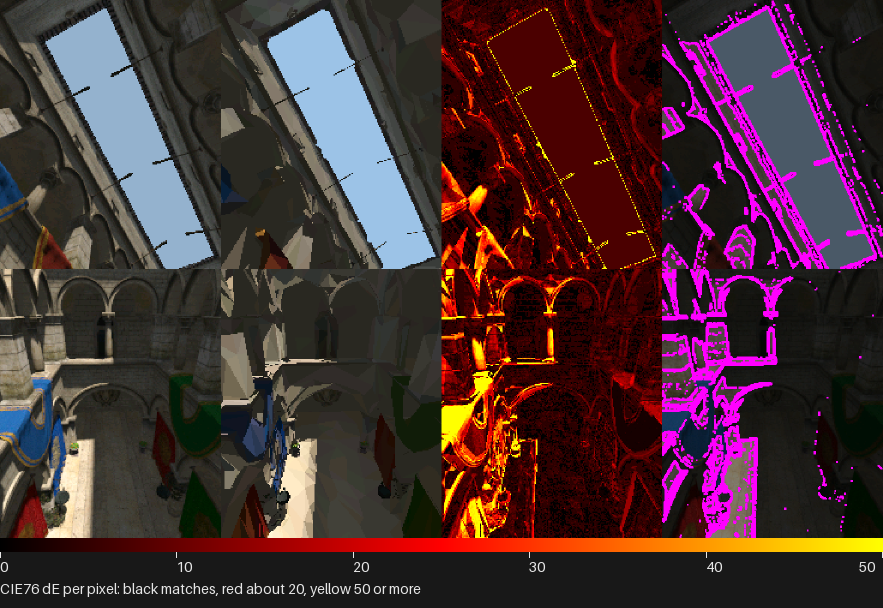
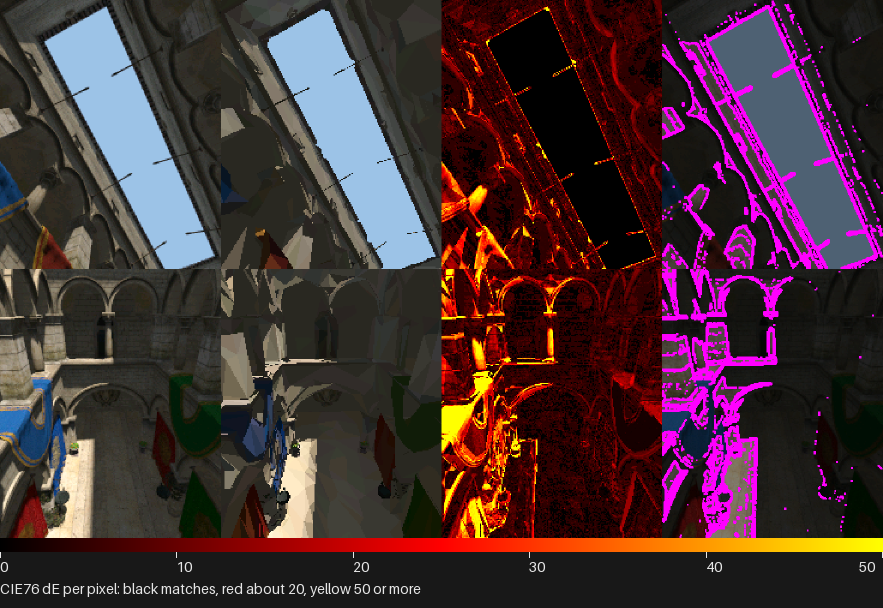
render: the reference fills uncovered pixels with the scene's background colour; --start scores a segment

Changed region(s): [[0.5504, 0.0, 0.7644, 0.4375], [0.0306, 0.0, 0.2446, 0.4688]]

diff --git a/launcher/tools/r3d/reference_render.py b/launcher/tools/r3d/reference_render.py
@@ -104,10 +104,17 @@ def hit_albedo(source, hits, bary):
 
 def render_linear(source, settings, scene, pose, width, height, lens, samples=4):
     """Return a linear RGB source render, supersampled then box filtered."""
+    return trace(source, settings, scene, pose, width, height, lens, samples)[0]
+
+
+def trace(source, settings, scene, pose, width, height, lens, samples=4):
+    """(linear RGB, share of each pixel's subpixels that hit the mesh)."""
     eye, forward = pose[:3], pose[3:]
     origin, direction = camera_rays(width, height, lens, eye, forward, samples)
     locations, rays, faces = source.intersector.intersects_location(origin, direction, multiple_hits=False)
     linear = np.zeros((len(origin), 3), dtype=float)
+    covered = np.zeros(len(origin))
+    covered[rays] = 1.0
     if len(rays):
         bary = hit_barycentrics(source, faces, locations)
         normal = hit_normals(source, faces, bary)
@@ -117,14 +124,19 @@ def render_linear(source, settings, scene, pose, width, height, lens, samples=4)
         radiance = light(locations, normal, double, source.intersector, scene.lights, settings.light.ray_offset,
                          np.random.default_rng(settings.seed), shared_sky_rays=0)
         linear[rays] = albedo * radiance
-    return linear.reshape(height, width, samples * samples, 3).mean(axis=2)
+    return (linear.reshape(height, width, samples * samples, 3).mean(axis=2),
+            covered.reshape(height, width, samples * samples).mean(axis=2))
 
 
-def parse_rgb(text):
-    """An RGB clear colour from a six-digit hex string."""
-    if len(text) != 6:
-        raise ValueError("clear colour must be RRGGBB")
-    return np.array([int(text[index : index + 2], 16) for index in (0, 2, 4)], dtype=np.uint8)
+def device_picture(linear, covered, tonemap_white, background):
+    """The 8-bit picture the device shows: the tone-mapped mesh over the scene's
+    background colour in proportion to what each pixel leaves uncovered, then
+    RGB565-quantised."""
+    lit = to_srgb8(linear, tonemap_white).astype(float)
+    if background is not None:
+        colour = np.array([background >> 16, (background >> 8) & 255, background & 255], dtype=float)
+        lit = lit * covered[..., None] + colour * (1.0 - covered[..., None])
+    return expand_565(np.round(lit).astype(np.uint8))
 
 
 def source_for(scene, import_path=None):
@@ -154,7 +166,6 @@ def main(argv=None):
     parser.add_argument("--out", required=True)
     parser.add_argument("--samples", type=int, default=4)
     parser.add_argument("--skip", type=int, default=0, help="ignore this many leading poses")
-    parser.add_argument("--clear", type=parse_rgb, help="RGB clear colour for rays that miss")
     args = parser.parse_args(argv)
     if args.samples < 1 or args.skip < 0:
         parser.error("--samples must be positive and --skip cannot be negative")
@@ -172,11 +183,9 @@ def main(argv=None):
     except ValueError as error:
         parser.error(str(error))
     for index, pose in enumerate(poses):
-        linear = render_linear(source, settings, scene, pose, width, height, lens, args.samples)
-        if args.clear is not None:
-            linear[~linear.any(axis=2)] = (args.clear / 255.0) ** 2.2
+        linear, covered = trace(source, settings, scene, pose, width, height, lens, args.samples)
         np.save(out / ("%03d.linear.npy" % index), linear)
-        Image.fromarray(expand_565(to_srgb8(linear, scene.tonemap_white).astype(np.uint8))).save(out / ("%03d.png" % index))
+        Image.fromarray(device_picture(linear, covered, scene.tonemap_white, scene.background)).save(out / ("%03d.png" % index))
     return 0
 
 

diff --git a/launcher/tools/render/render_compare.py b/launcher/tools/render/render_compare.py
@@ -613,16 +613,20 @@ def reference_images(directory):
     return sorted(pathlib.Path(directory).glob("*.png"), key=lambda path: (len(path.stem), path.stem))
 
 
-def reference_video(path, reference_dir, scale=None, heatmaps=None, keep=None, sink=None):
+def reference_video(path, reference_dir, scale=None, heatmaps=None, keep=None, sink=None, first=0):
     """Score every AVI frame against ordered reference PNGs and return their
     mean. `scale` is the render's pixels per reference pixel, found from the
     first frame when None. `keep`, a dict of frame index to None, is filled
     with the (render, reference) pairs of those frames; `sink(fps, index,
-    render, reference)` is called for every frame."""
+    render, reference)` is called for every frame. The first `first` video
+    frames are skipped, for references that cover only a later segment."""
     fps, frames = read_video(path)
     references = reference_images(reference_dir)
     values = []
-    for index, raw in enumerate(frames):
+    for position, raw in enumerate(frames):
+        index = position - first
+        if index < 0:
+            continue
         if index >= len(references):
             raise ValueError("more video frames than reference images")
         render = Image.fromarray(raw)
@@ -682,6 +686,7 @@ def main():
     parser.add_argument("--reference-row", nargs=3, action="append", metavar=("LABEL", "RENDER", "REFERENCE"))
     parser.add_argument("--reference-video", nargs=2, metavar=("VIDEO", "REFERENCE_DIR"))
     parser.add_argument("--reference-scale", type=int, help="render pixels per reference pixel; default from the first frame")
+    parser.add_argument("--reference-first", type=int, default=0, help="video frames to skip before the reference images begin")
     parser.add_argument("--reference-mp4", metavar="MP4", help="with --reference-video, the sheet of every frame as a video")
     parser.add_argument("--heatmap-dir")
     parser.add_argument("--reference-sheet", metavar="PNG", help="with --reference-video, one sheet of --sheet-frames")
@@ -732,7 +737,7 @@ def main():
         video = ReferenceVideoWriter(args.reference_mp4, args.fps) if args.reference_mp4 else None
         try:
             frames, total = reference_video(*args.reference_video, args.reference_scale, heatmaps, keep,
-                                            None if video is None else video.add)
+                                            None if video is None else video.add, args.reference_first)
         finally:
             if video is not None:
                 video.close()

diff --git a/launcher/tools/r3d/import_settings.py b/launcher/tools/r3d/import_settings.py
@@ -83,6 +83,14 @@ def count(value, where):
     return value
 
 
+def background(value):
+    """The colour of a pixel no mesh covers, 0xRRGGBB."""
+    value = integer(value, "scene.background")
+    if not 0 <= value <= 0xFFFFFF:
+        raise SettingsError("scene.background must be 0xRRGGBB")
+    return value
+
+
 def vector(value, where):
     if not isinstance(value, list) or len(value) != 3:
         raise SettingsError(f"{where} must be a three-component array")
@@ -342,7 +350,7 @@ def load_scene(path):
     path = pathlib.Path(path).resolve()
     with open(path, "rb") as source:
         values = tomllib.load(source)
-    check_keys(values, ("objects",), "scene", optional=("tonemap_white", "sky", "ambient"))
+    check_keys(values, ("objects",), "scene", optional=("tonemap_white", "background", "sky", "ambient"))
     objects = values["objects"]
     if not isinstance(objects, list) or not objects:
         raise SettingsError("scene.objects must be a non-empty array of tables")
@@ -368,7 +376,8 @@ def load_scene(path):
         path=path, objects=objects, renderers=[SimpleNamespace(settings=item.component.settings, variant=item.component.variant,
                                                                object=item) for item in renderers],
         camera=cameras[0] if cameras else None, region=region, lights=lights,
-        tonemap_white=number(values["tonemap_white"], "scene.tonemap_white") if "tonemap_white" in values else None)
+        tonemap_white=number(values["tonemap_white"], "scene.tonemap_white") if "tonemap_white" in values else None,
+        background=background(values["background"]) if "background" in values else None)
     lit = any(item.component.settings.light for item in renderers)
     culled = any(item.component.settings.visibility for item in renderers)
     for name, present, needed in (("lights", bool(lights), lit), ("tonemap_white", scene.tonemap_white is not None, lit),

diff --git a/launcher/tools/tests/test_r3d_reference.py b/launcher/tools/tests/test_r3d_reference.py
@@ -6,6 +6,7 @@ import unittest
 from types import SimpleNamespace
 
 sys.path.insert(0, str(pathlib.Path(__file__).resolve().parents[1]))
+sys.path.insert(0, str(pathlib.Path(__file__).resolve().parents[1] / "render"))
 
 try:
     import numpy as np
@@ -13,7 +14,8 @@ try:
     from trimesh.ray.ray_pyembree import RayMeshIntersector
 
     from r3d.geometry import corner_normals
-    from r3d.reference_render import render_linear
+    from r3d.reference_render import device_picture, render_linear, trace
+    from render_compare import expand_565
 except ImportError:
     np = None
 
@@ -57,6 +59,19 @@ class ReferenceRenderTest(unittest.TestCase):
         source = plane_source([[-0.5, 0.5, 0.0], [0.0, 0.5, 0.0], [0.0, 2.0, 0.0], [-0.5, 2.0, 0.0]])
         picture = render_linear(source, *sun_scene([0.0, 0.0, 1.0]), LOOK_DOWN, 2, 2, 1.0, 2)
         np.testing.assert_allclose(picture[..., 0], [[0.25, 0.0], [0.0, 0.0]], atol=1e-12, rtol=0)
+
+    def test_a_pose_at_empty_sky_is_the_scene_background_as_the_device_shows_it(self):
+        source = plane_source([[-2.0, -2.0, 0.0], [2.0, -2.0, 0.0], [2.0, 2.0, 0.0], [-2.0, 2.0, 0.0]])
+        away = np.array([0.0, 0.0, 1.0, 0.0, 0.0, 1.0])
+        linear, covered = trace(source, *sun_scene([0.0, 0.0, 1.0]), away, 3, 3, 1.0, 2)
+        picture = device_picture(linear, covered, 0.35, 0x9CC0E6)
+        shown = expand_565(np.full((3, 3, 3), (0x9C, 0xC0, 0xE6), dtype=np.uint8))
+        np.testing.assert_array_equal(picture, shown)
+
+    def test_a_half_covered_pixel_blends_the_mesh_with_the_background(self):
+        linear, covered = np.full((1, 1, 3), 1.0), np.full((1, 1), 0.5)
+        picture = device_picture(linear, covered, 0.0, 0x000000)
+        np.testing.assert_array_equal(picture, expand_565(np.full((1, 1, 3), 128, dtype=np.uint8)))
 
 
 if __name__ == "__main__":

diff --git a/launcher/tools/tests/test_render_compare.py b/launcher/tools/tests/test_render_compare.py
@@ -365,6 +365,14 @@ class VideoTest(unittest.TestCase):
         self.assertTrue(all(line.startswith(("frame", "frames")) and "mean DeltaE76 0.0000" in line and "luma SSIM 1.000000" in line
                             for line in lines))
 
+    def test_a_reference_video_can_start_at_a_later_frame(self):
+        near, far = Image.new("RGB", (2, 2), DRAWN), Image.new("RGB", (2, 2), CLEAR)
+        with tempfile.TemporaryDirectory() as tmp:
+            video = self.write_avi(tmp, "a.avi", [far, far, near], 250)
+            near.save(Path(tmp) / "000.png")
+            values, total = render_compare.reference_video(video, tmp, first=2)
+        self.assertEqual((len(values), total.mean_delta_e), (1, 0.0))
+
     def test_reference_images_run_past_999_in_frame_order(self):
         with tempfile.TemporaryDirectory() as tmp:
             for name in ("100", "999", "1000", "1001", "099"):

diff --git a/launcher/main/apps/render_lab/scene_sponza.c b/launcher/main/apps/render_lab/scene_sponza.c
@@ -26,8 +26,6 @@
 #include "sponza_scene_generated.h"
 #include "util/tune.h"
 
-#define SKY_RGB 0x9CC0E6
-
 static const char* TAG = "sponza";
 
 static raster_t raster; /* holds its scratch from enter() to exit() */
@@ -74,7 +72,7 @@ enter_with(const r3d_instance_t* placed) {
         .instance_count = 1,
         .width = GFX_WIDTH * 100 / render_lab_scale(),
         .height = GFX_HEIGHT * 100 / render_lab_scale(),
-        .clear = GFX_RGB(SKY_RGB),
+        .clear = GFX_RGB(SPONZA_SCENE_BACKGROUND_RGB),
         .destination = gfx_framebuffer(),
         .destination_width = GFX_WIDTH,
         .destination_height = GFX_HEIGHT,

diff --git a/launcher/tools/r3d/scene_table.py b/launcher/tools/r3d/scene_table.py
@@ -109,6 +109,8 @@ def header_source(scene, banner):
     lines.append(f"extern const r3d_scene_assets_t {name}_assets;")
     if scene.camera:
         lines.append(f"extern const r3d_scene_camera_t {name}_{scene.camera.name};")
+    if scene.background is not None:
+        lines.append(f"#define {name.upper()}_BACKGROUND_RGB 0x{scene.background:06X}")
     return "\n".join(lines) + "\n"
 
 

diff --git a/launcher/main/apps/render_lab/sponza_scene_generated.h b/launcher/main/apps/render_lab/sponza_scene_generated.h
@@ -13,3 +13,4 @@ extern const r3d_instance_t sponza_scene_atrium_flat;
 extern const r3d_instance_t sponza_scene_atrium_lite;
 extern const r3d_scene_assets_t sponza_scene_assets;
 extern const r3d_scene_camera_t sponza_scene_camera;
+#define SPONZA_SCENE_BACKGROUND_RGB 0x9CC0E6

diff --git a/launcher/main/apps/render_lab/tools/README.md b/launcher/main/apps/render_lab/tools/README.md
@@ -126,12 +126,12 @@ the committed flat render.
 
 | Variant | Mean ΔE76 | p95 ΔE76 | Luma SSIM | Edge ΔE76 | Interior ΔE76 |
 |---|---:|---:|---:|---:|---:|
-| Full smooth | 7.069 | 21.73 | 0.690 | 14.44 | 5.89 |
-| Lite smooth | 7.964 | 25.27 | 0.647 | 16.51 | 6.59 |
-| Flat, 1 sample per face | 7.899 | 29.72 | 0.640 | 17.00 | 6.43 |
-| Flat, 4 samples per face | 7.476 | 24.58 | 0.653 | 15.66 | 6.16 |
-| Flat, committed (`auto` 1 to 16, median area) | 7.681 | 27.13 | 0.647 | 16.61 | 6.24 |
-| Flat, 16 samples per face | 7.367 | 23.64 | 0.657 | 15.17 | 6.12 |
+| Full smooth | 6.654 | 21.46 | 0.696 | 13.64 | 5.53 |
+| Lite smooth | 7.541 | 24.83 | 0.651 | 15.76 | 6.22 |
+| Flat, 1 sample per face | 7.495 | 29.46 | 0.645 | 16.25 | 6.08 |
+| Flat, 4 samples per face | 7.072 | 24.43 | 0.658 | 14.91 | 5.81 |
+| Flat, committed (`auto` 1 to 16, median area) | 7.278 | 26.92 | 0.652 | 15.87 | 5.89 |
+| Flat, 16 samples per face | 6.964 | 23.54 | 0.663 | 14.43 | 5.76 |
 
 Flat against full smooth differs by mean ΔE76 5.54, p95 22.97 and SSIM 0.798:
 the gap flat shading leaves between the two bakes.
@@ -141,34 +141,34 @@ The flat sweep, sorted by mean ΔE76; `min` and `max` are the `auto` bounds,
 
 | Setting | Mean ΔE76 | p95 ΔE76 | Luma SSIM | Edge ΔE76 |
 |---|---:|---:|---:|---:|
-| fixed 16 | 7.367 | 23.64 | 0.657 | 15.17 |
-| fixed 64 | 7.372 | 23.55 | 0.658 | 15.15 |
-| fixed 32 | 7.376 | 23.61 | 0.658 | 15.14 |
-| fixed 8 | 7.417 | 23.90 | 0.654 | 15.36 |
-| min 4 | 7.463 | 24.56 | 0.653 | 15.65 |
-| fixed 4, sun centre only | 7.473 | 24.91 | 0.654 | 15.96 |
-| fixed 4 | 7.476 | 24.58 | 0.653 | 15.66 |
-| area 0.25 | 7.524 | 24.89 | 0.651 | 15.86 |
-| min 2 | 7.561 | 25.61 | 0.652 | 16.08 |
-| area 0.5 | 7.641 | 25.88 | 0.648 | 16.30 |
-| fixed 2 | 7.651 | 26.40 | 0.649 | 16.16 |
-| max 8 | 7.674 | 27.15 | 0.647 | 16.61 |
-| sky 512 | 7.676 | 27.12 | 0.647 | 16.60 |
-| committed (min 1, max 16, area 1, sky 128) | 7.681 | 27.13 | 0.647 | 16.61 |
-| max 32 | 7.681 | 27.13 | 0.647 | 16.61 |
-| sky 256 | 7.688 | 27.12 | 0.647 | 16.60 |
-| max 4 | 7.694 | 27.25 | 0.647 | 16.62 |
-| sky 64 | 7.787 | 27.14 | 0.646 | 16.64 |
-| area 2 | 7.803 | 28.92 | 0.643 | 16.90 |
-| sun centre only | 7.855 | 28.42 | 0.643 | 17.49 |
-| centroid placement (any count) | 7.908 | 29.97 | 0.639 | 17.07 |
-| sky 32 | 7.942 | 27.18 | 0.644 | 16.68 |
-| sky 16 | 8.338 | 27.25 | 0.638 | 16.74 |
+| fixed 16 | 6.964 | 23.54 | 0.663 | 14.43 |
+| fixed 64 | 6.968 | 23.45 | 0.663 | 14.41 |
+| fixed 32 | 6.973 | 23.51 | 0.663 | 14.39 |
+| fixed 8 | 7.014 | 23.82 | 0.660 | 14.61 |
+| min 4 | 7.060 | 24.41 | 0.659 | 14.90 |
+| fixed 4, sun centre only | 7.070 | 24.73 | 0.659 | 15.21 |
+| fixed 4 | 7.072 | 24.43 | 0.658 | 14.91 |
+| area 0.25 | 7.121 | 24.73 | 0.656 | 15.11 |
+| min 2 | 7.158 | 25.41 | 0.657 | 15.33 |
+| area 0.5 | 7.238 | 25.68 | 0.653 | 15.55 |
+| fixed 2 | 7.248 | 26.21 | 0.654 | 15.41 |
+| max 8 | 7.271 | 26.94 | 0.652 | 15.87 |
+| sky 512 | 7.273 | 26.90 | 0.653 | 15.86 |
+| max 32 | 7.277 | 26.92 | 0.652 | 15.87 |
+| committed (min 1, max 16, area 1, sky 128) | 7.278 | 26.92 | 0.652 | 15.87 |
+| sky 256 | 7.285 | 26.91 | 0.653 | 15.86 |
+| max 4 | 7.290 | 27.02 | 0.652 | 15.88 |
+| sky 64 | 7.383 | 26.95 | 0.651 | 15.90 |
+| area 2 | 7.400 | 28.66 | 0.648 | 16.16 |
+| sun centre only | 7.451 | 28.14 | 0.648 | 16.74 |
+| centroid placement (any count) | 7.505 | 29.70 | 0.644 | 16.33 |
+| sky 32 | 7.539 | 26.96 | 0.650 | 15.94 |
+| sky 16 | 7.935 | 27.05 | 0.644 | 16.00 |
 
-Sixteen fixed samples per face take the committed bake's mean from 7.681 to
-7.367 and its p95 from 27.13 to 23.64, at no cost at run time: the mesh and its
-frame cost are the same. They hold edge error to 15.17 against the smooth
-bake's 14.44.
+Sixteen fixed samples per face take the committed bake's mean from 7.278 to
+6.964 and its p95 from 26.92 to 23.54, at no cost at run time: the mesh and its
+frame cost are the same. They hold edge error to 14.43 against the smooth
+bake's 13.64.
 
 One sheet of two poses of the committed flat bake, left to right the reference,
 the bake, the ΔE heatmap and the reference's edge pixels (magenta), with the

diff --git a/docs/render/Scene-Files.md b/docs/render/Scene-Files.md
@@ -9,6 +9,7 @@ and where.
 
 ```toml
 tonemap_white = 0.35             # larger is darker
+background = 0x9CC0E6            # what a pixel no mesh covers shows; optional
 
 [sky]                            # scene settings, not objects
 color = [0.55, 0.68, 0.9]
@@ -88,6 +89,9 @@ A mesh whose import has a scene-dependent step reads the scene:
 - `process.light` reads the lights (at least one directional object, `[sky]`
   or `[ambient]`) and `tonemap_white`;
 - `process.visibility` reads the camera's `region`.
+- `background` is written to the scene table's header as a `<NAME>_BACKGROUND_RGB`
+  define the scene draws with, and `reference_render.py` fills uncovered pixels
+  with it, RGB565-quantised as the panel shows it.
 
 A scene must carry what a placed mesh reads, and may not carry what none
 reads. Baking a mesh reads the lights of the scene that requests it, so a mesh
